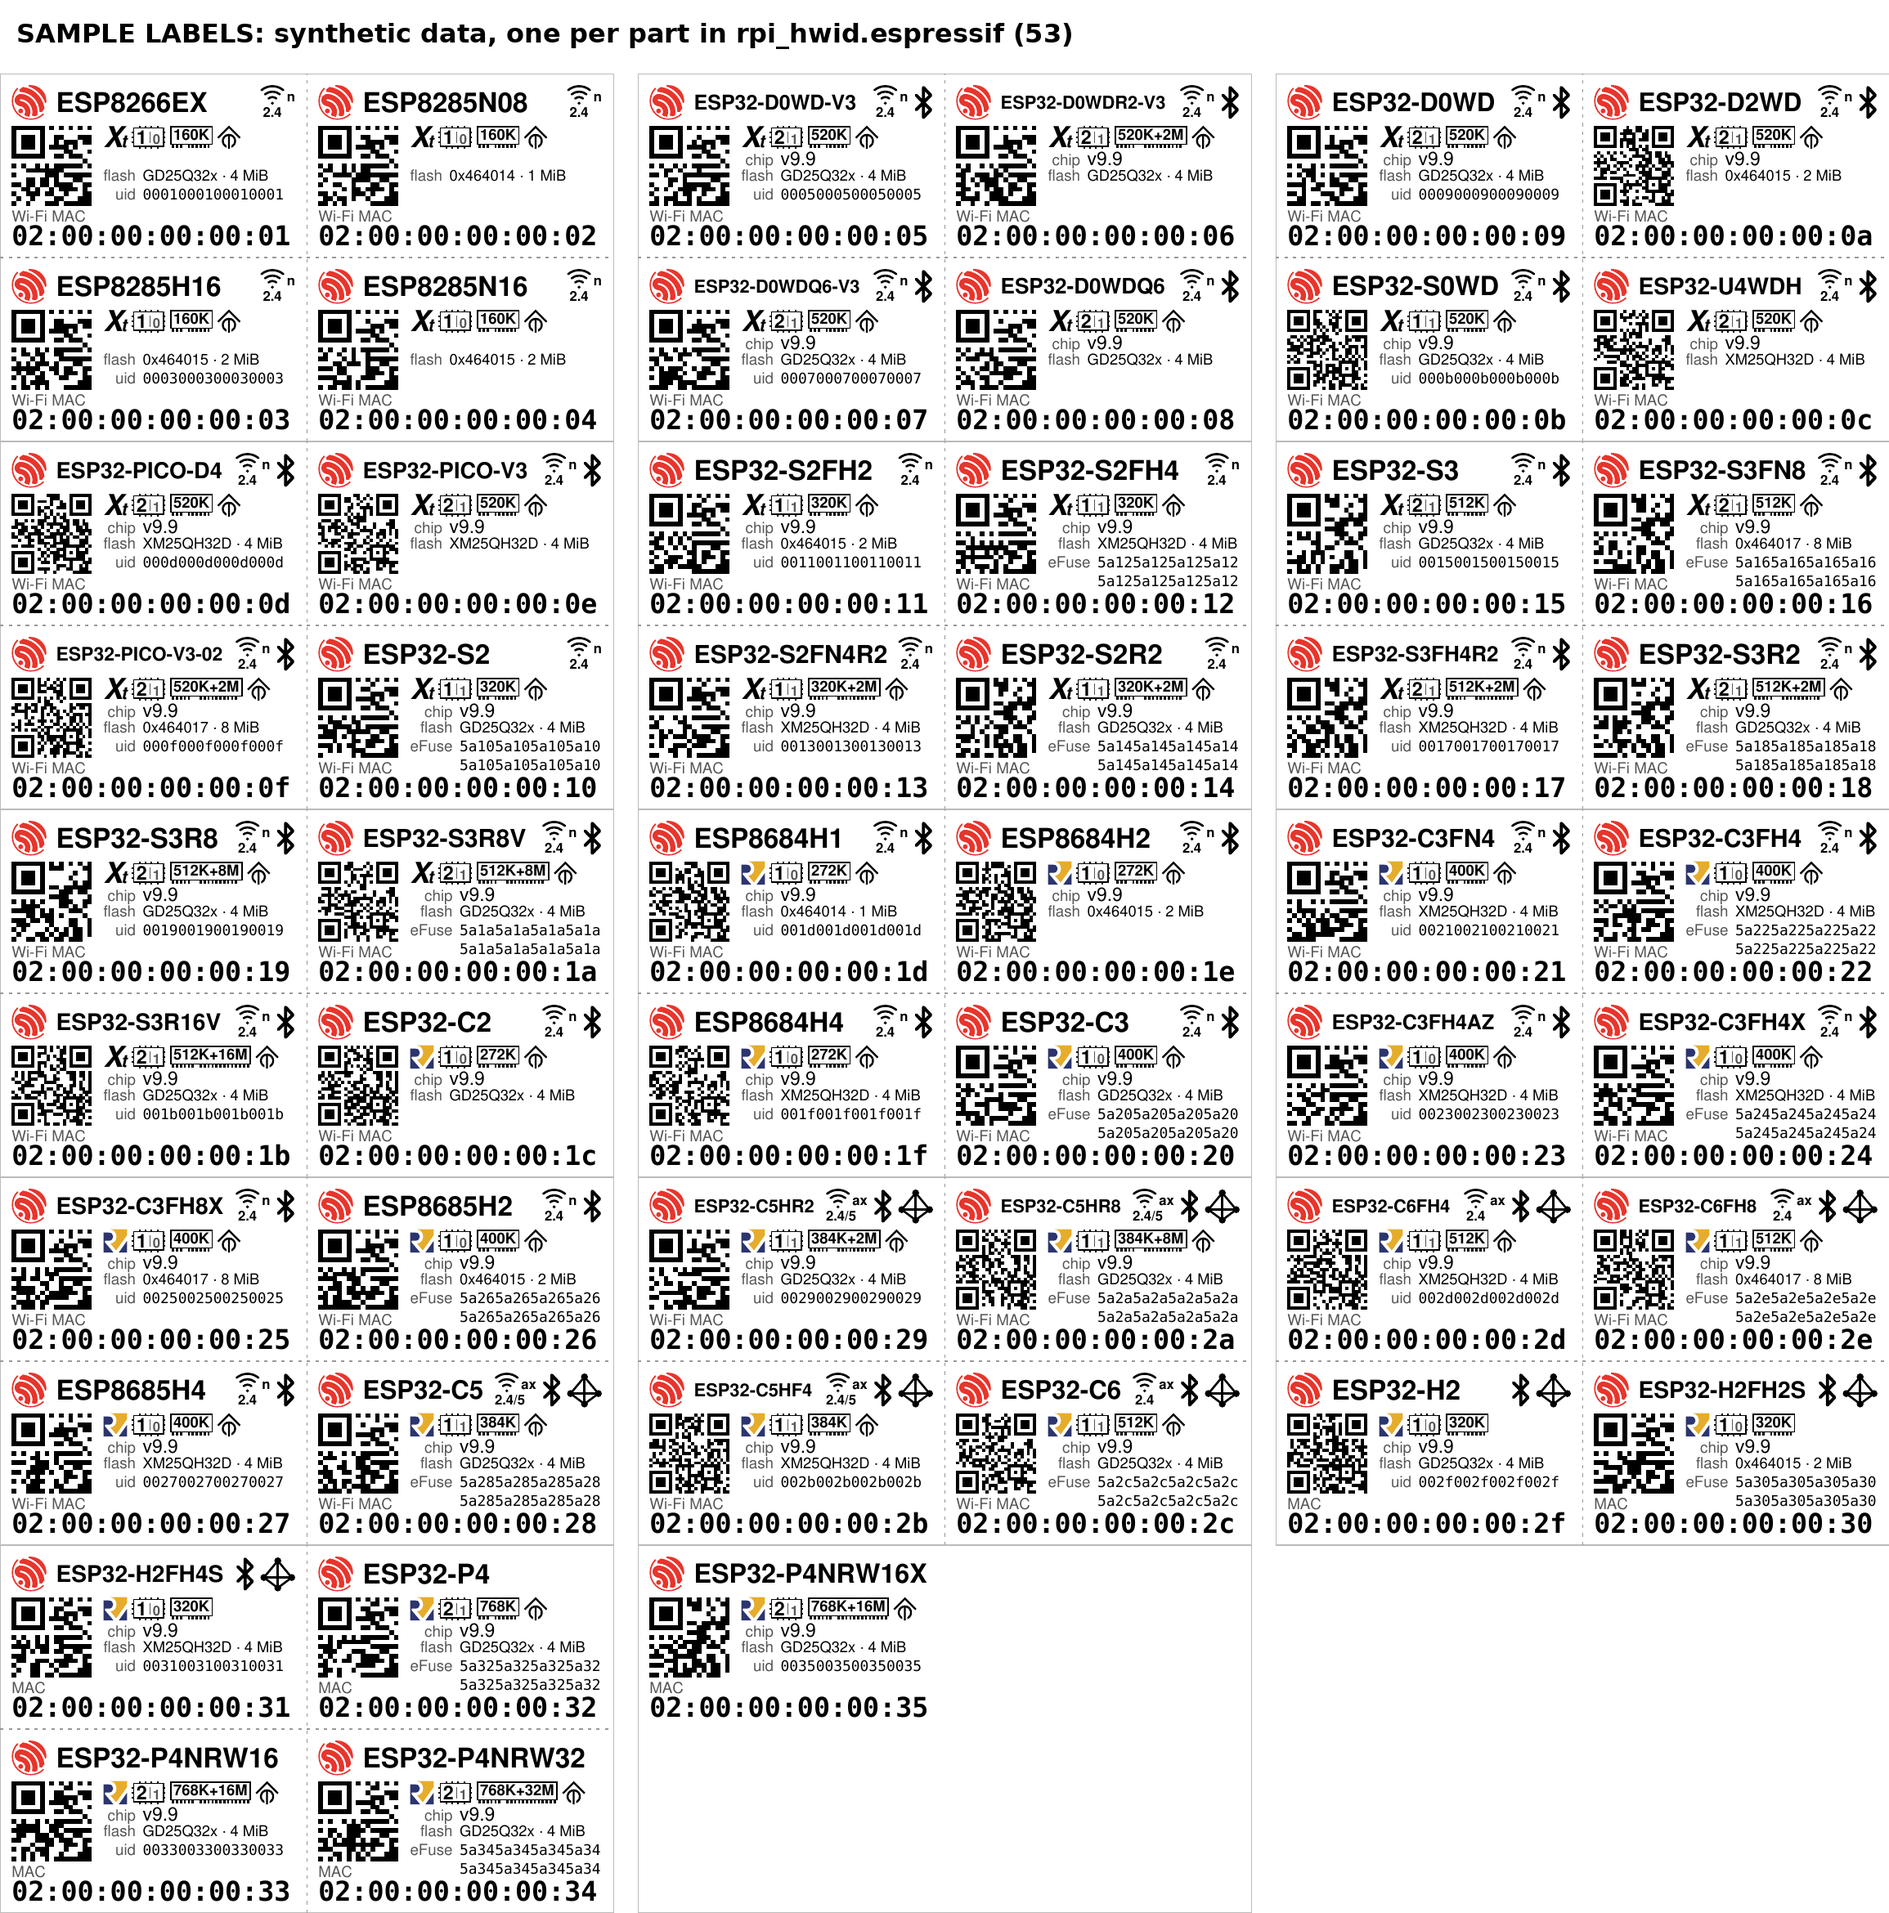
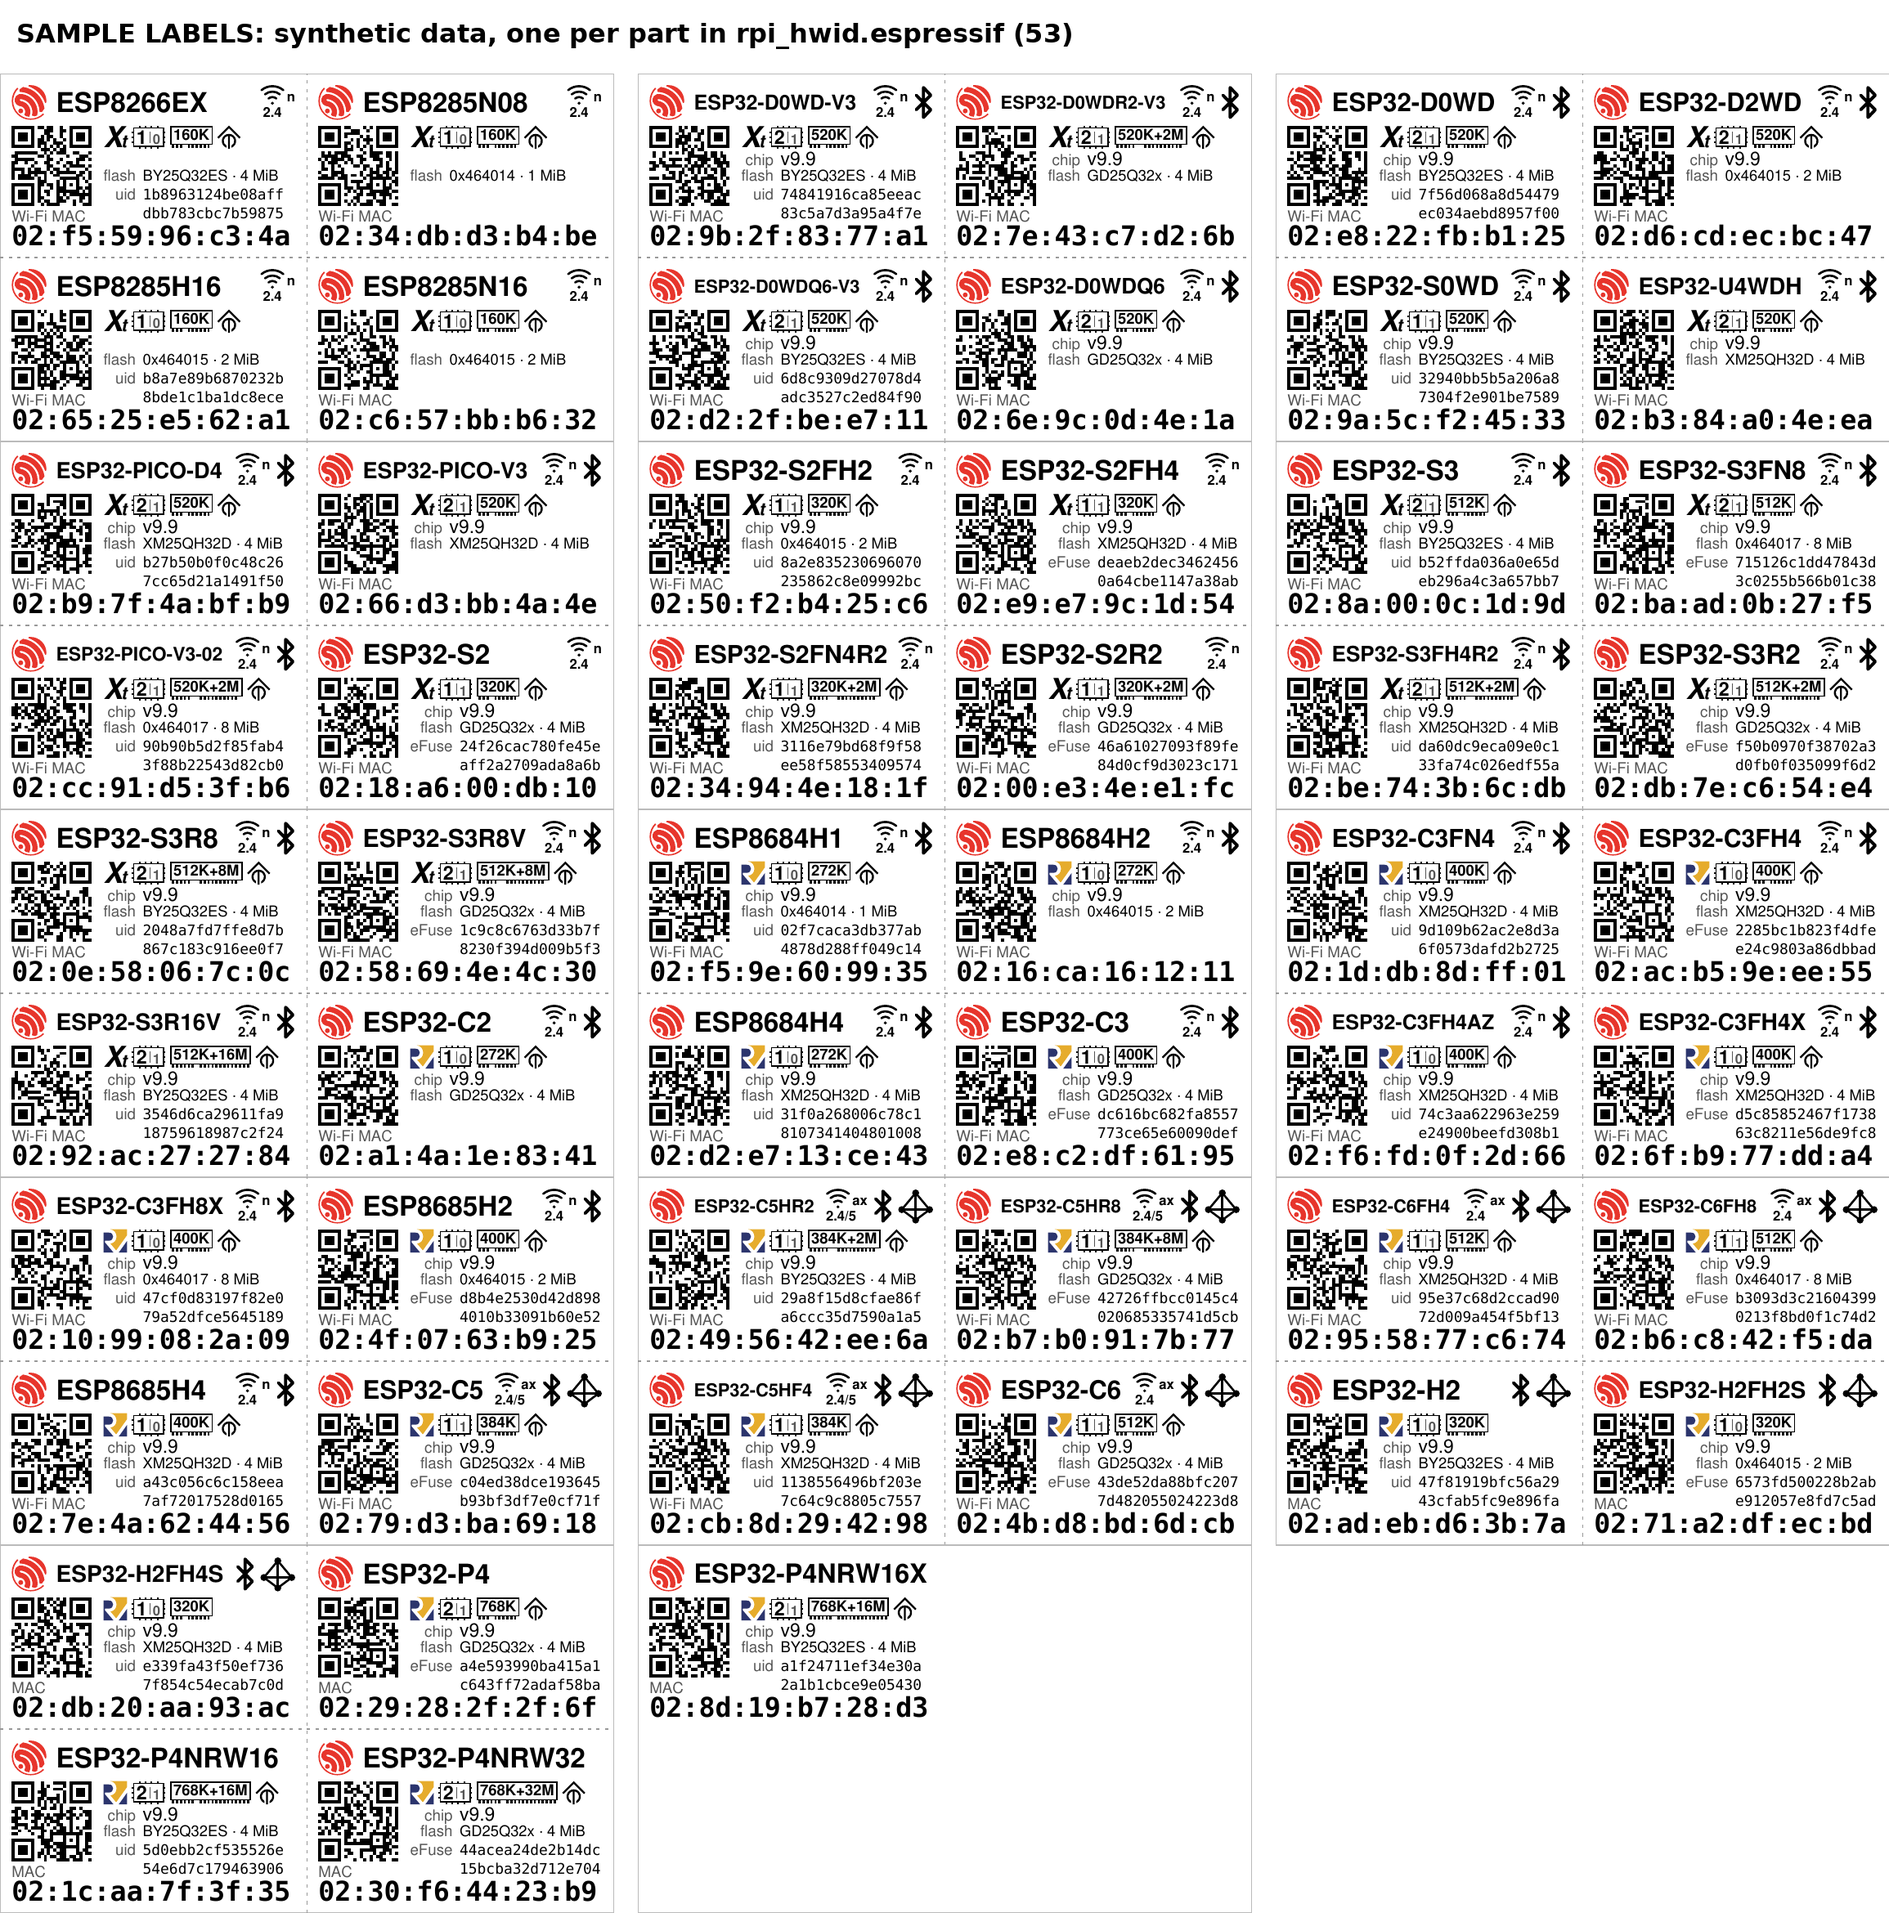
esp32_micro: sample devices whose ids look like real ones
Tim asked why all the flash ids on the sample sheet were identical, and
why some of the Wi-Fi MAC QR codes looked different. Every sample carried
the same GigaDevice flash and ids that were counting patterns, and a
sample MAC of digits alone (02:00:00:00:00:01) was drawn by segno as a
Micro QR code, where one with a hex letter was a full QR code.

The samples' MACs and ids are now made up from a SHA-256 of the part's
name, every MAC with a hex letter in it as real ones have, so every QR
code on the sheet is a full version-2 code; the external flash takes the
real boards' GD25Q32x and BY25Q32ES in turn.

Claude-Session: https://claude.ai/code/session_01PBYpeR32kHxmN65GqkGhJx

diff --git a/src/rpi_hwid/esp32_micro.py b/src/rpi_hwid/esp32_micro.py
@@ -62,6 +62,7 @@ table, for the docs' sample sheet.
 
 from __future__ import annotations
 
+import hashlib
 import re
 from dataclasses import dataclass
 from typing import TYPE_CHECKING, Any
@@ -377,31 +378,56 @@ def micro_labels(docs: Mapping[str, Any]) -> list[MicroLabel]:
 # --- samples ---------------------------------------------------------------------
 
 
+def _sample_hex(part: espressif.Part, what: str, digits: int) -> str:
+    """`digits` hex digits that look like a real id and differ from part to
+    part: a SHA-256 of the part's name and the field, not a counting pattern."""
+    return hashlib.sha256(f"{part.part} {what}".encode()).hexdigest()[:digits]
+
+
+# The external flash parts the real boards carry, taken in turn by the
+# samples so the sheet shows each way a flash row can read: (JEDEC id, uid
+# bits). The Boya's 128 bits are what name it a BY25Q32ES.
+SAMPLE_FLASH = ((0xC84016, 64), (0x684016, 128))
+
+
 def sample_device(part: espressif.Part, n: int) -> Esp32Device:
     """A clearly synthetic device of `part`: a locally administered MAC
-    (02:...), revision v9.9 (none for an ESP8266, which reports none), and ids
-    counting up from n. For the sample sheet only; it was read from nothing."""
+    (02:...), revision v9.9 (none for an ESP8266, which reports none), and
+    ids made up from the part's name, so every sample's differ and none is a
+    pattern. Its MAC always has a hex letter in it, as real ones do: one of
+    digits alone would be drawn as a Micro QR code. For the sample sheet
+    only; it was read from nothing."""
     fam = part.family
-    mac = f"02:00:00:00:{n >> 8 & 0xff:02x}:{n & 0xff:02x}"
+    salt = 0
+    while True:
+        tail = _sample_hex(part, f"mac {salt}", 10)
+        if re.search("[a-f]", tail):
+            break
+        salt += 1
+    mac = "02:" + ":".join(tail[i:i + 2] for i in range(0, 10, 2))
     size = f"{part.flash_mb:g}" if part.flash_mb else "4"
     feats = ["Wi-Fi"] if fam.wifi else []
     if part.flash_mb and fam not in (espressif.ESP8266, espressif.ESP32):
         # the eFuse of the later chips names the in-package flash's size and
         # vendor; esptool says only "Embedded Flash" for the older two
         feats.append(f"Embedded Flash {size}MB (XMC)")
-    # 0x16: 4 MiB; a GigaDevice outside the package, an XMC inside it
-    capacity = {1: 0x14, 2: 0x15, 4: 0x16, 8: 0x17}.get(int(part.flash_mb or 4), 0x16)
-    jedec = f"0x{0x46 if part.flash_mb else 0xc8:02x}40{capacity:02x}"
-    uid = f"{n:04x}" * 4 if n % 2 else ""
+    if part.flash_mb:
+        # in the package: XMC's second vendor code, as on the real C3s
+        capacity = {1: 0x14, 2: 0x15, 4: 0x16, 8: 0x17}.get(int(part.flash_mb), 0x16)
+        jedec, bits = 0x464000 | capacity, 128
+    else:
+        jedec, bits = SAMPLE_FLASH[n % len(SAMPLE_FLASH)]
+    # every other sample has no flash uid, to show the eFuse id in its place
+    uid = _sample_hex(part, "flash uid", bits // 4) if n % 2 else ""
     efuse: dict[str, Any] = {}
     if fam.chip_uid:
-        efuse["OPTIONAL_UNIQUE_ID"] = f"5a{n:02x}" * 8
+        efuse["OPTIONAL_UNIQUE_ID"] = _sample_hex(part, "efuse uid", 32)
     return Esp32Device(
         tty=None, transport="sample", mac=mac, chip=part.part,
         chip_description=part.part,
         revision=None if fam is espressif.ESP8266 else "v9.9", features=tuple(feats),
-        crystal_mhz=26 if fam is espressif.ESP8266 else 40, flash_jedec=jedec,
-        flash_uid=uid, efuse=efuse)
+        crystal_mhz=26 if fam is espressif.ESP8266 else 40, flash_jedec=f"0x{jedec:06x}",
+        flash_uid=uid, flash_uid_bits=bits if uid else None, efuse=efuse)
 
 
 def sample_label(part: espressif.Part, n: int = 1) -> MicroLabel:

diff --git a/tests/test_esp32_micro.py b/tests/test_esp32_micro.py
@@ -307,3 +307,23 @@ def test_the_cores_glyph_is_the_part_s_core_pair(part):
     hp, lp = part.core_pair
     assert Icon("cores", f"{hp}+{lp}") in lab.specs
     assert micro.strip_width(lab.specs) <= micro.rows_w() + 0.01
+
+
+def test_sample_devices_look_like_real_ones():
+    """Every sample on the sheet has its own MAC, flash uid and eFuse id,
+    none a counting pattern, and every MAC has a hex letter in it, as real
+    ones do: a MAC of digits alone would come out as a Micro QR code (Tim,
+    2026-09-27: "Why are all the flash ids identical?", "Why do some of the
+    wifi MAC qrcodes look different?")."""
+    import segno
+    devs = [esp32_micro.sample_device(p, i + 1) for i, p in enumerate(espressif.PARTS)]
+    macs = [d.mac for d in devs]
+    uids = [d.flash_uid for d in devs if d.flash_uid]
+    efuse = [d.efuse["OPTIONAL_UNIQUE_ID"] for d in devs if "OPTIONAL_UNIQUE_ID" in d.efuse]
+    assert len(set(macs)) == len(macs)
+    assert len(set(uids)) == len(uids)
+    assert len(set(efuse)) == len(efuse)
+    assert all(m.startswith("02:") for m in macs)
+    assert all(segno.make(m, error="m").designator.startswith("2-") for m in macs)
+    assert all(len({u[i:i + 4] for i in range(0, len(u), 4)}) > 1 for u in uids)
+    assert len({d.flash_jedec for d in devs}) > 2
